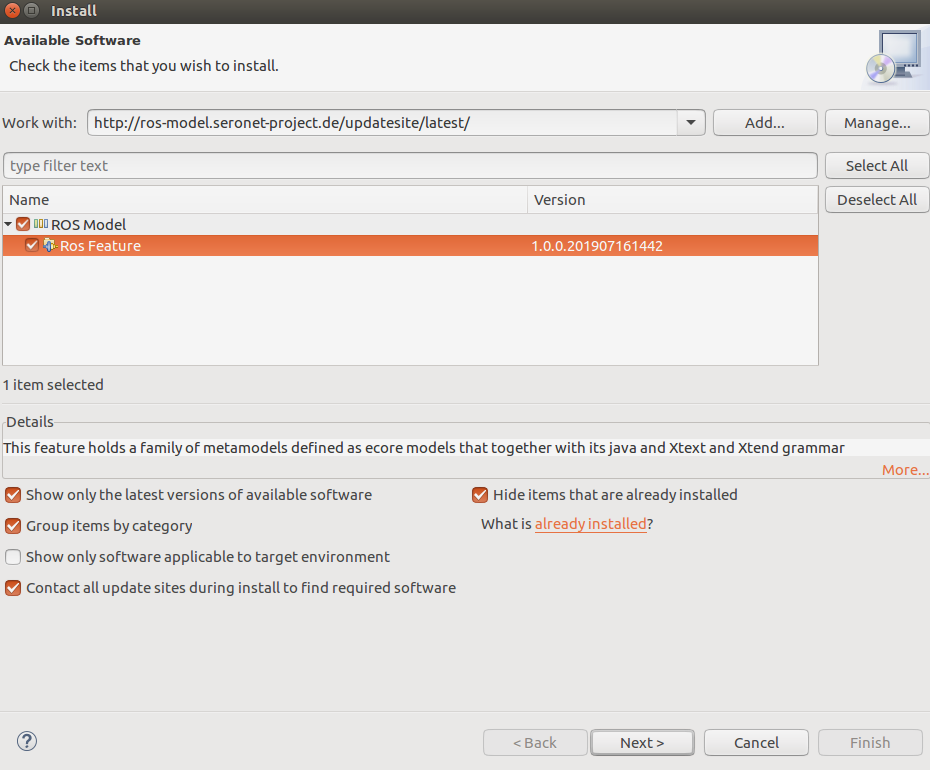
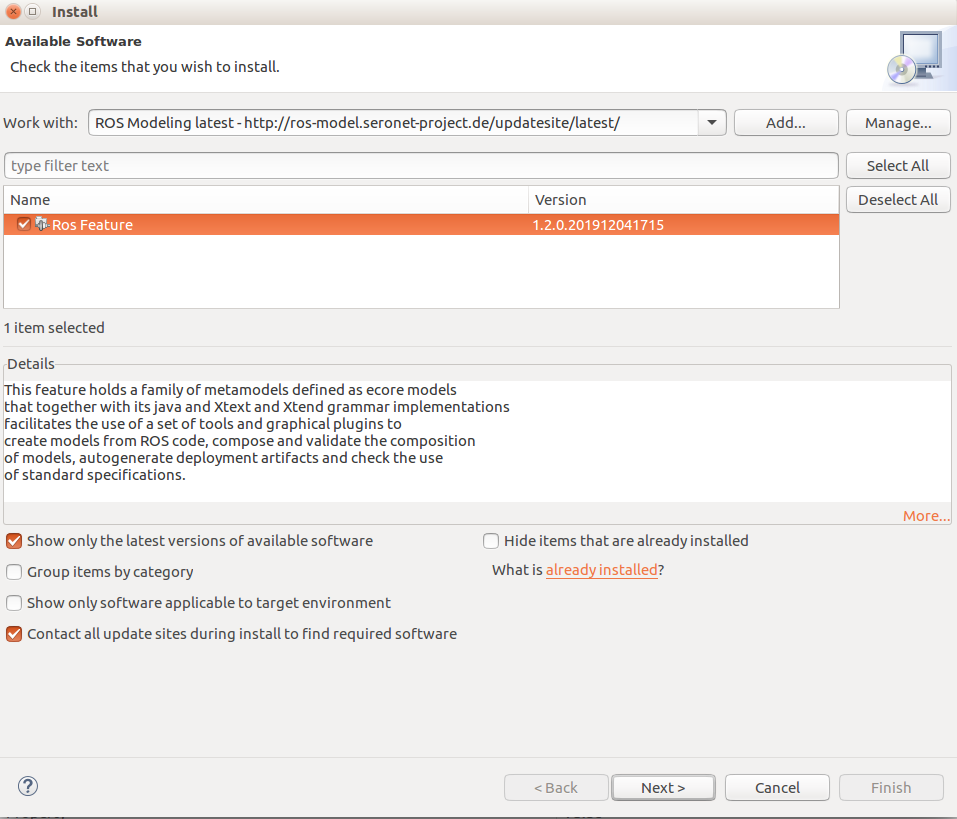
add extra documentation in case no package can be found

diff --git a/README.md b/README.md
@@ -24,7 +24,7 @@ In Eclipse, go to *Help* > *Install New Software...*. To install the latest vers
 
 ![alt text](docu/images/install_updatesite.png)
 
-The category *ROS Model* appears in the *Name* area. Check the box in front of *ROS model* and click *Next* to review the list of items to be installed. Click *Next* again to read and accept the terms of the license agreements and afterwards click *Finish*. Eclipse will then start to install the ROS tooling and its dependencies. If you get a security warning about the authenticity, click OK. Finally, when asked, restart Eclipse to complete the installation process.
+If none package is listed, please uncheck the option *Group items by category*. The category *ROS Model* appears in the *Name* area. Check the box in front of *ROS model* and click *Next* to review the list of items to be installed. Click *Next* again to read and accept the terms of the license agreements and afterwards click *Finish*. Eclipse will then start to install the ROS tooling and its dependencies. If you get a security warning about the authenticity, click OK. Finally, when asked, restart Eclipse to complete the installation process.
 
 To start using the ROS tooling continue with the [step 1](#1-switch-to-the-ros-developer-perspective)
 
